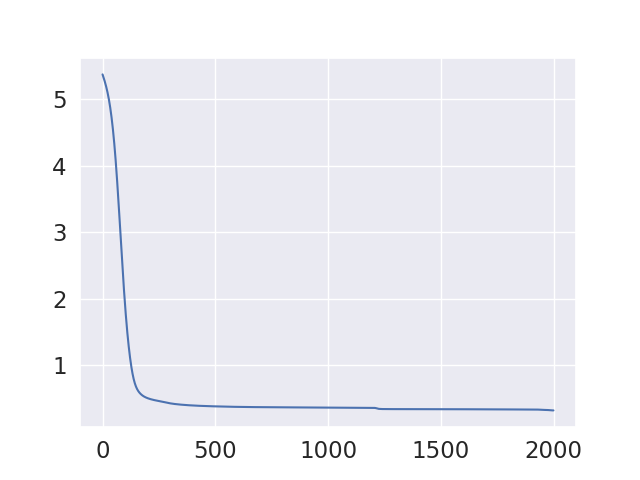
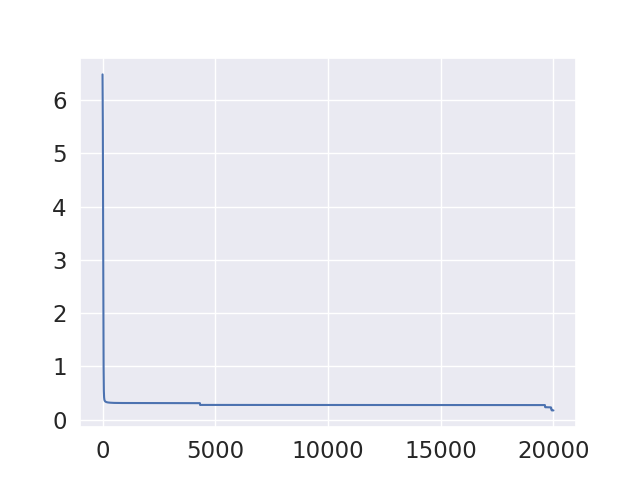
train longer, fix emb dim to 128

diff --git a/cat_tests/test_hyps.py b/cat_tests/test_hyps.py
@@ -87,7 +87,7 @@ class Cat(nn.Module):
 def H(lp):
     return -(lp.exp() * lp).sum(-1)
 
-emb_dim = 32
+emb_dim = 128
 feature_dim_ratio_grid = [1, 2, 4, 8, 16]
 feature_dim_ratio_grid = [0.5, 1, 2, 4, 8]
 num_classes_grid = [1024, 2048]
@@ -98,7 +98,7 @@ num_classes_grid = [128]
 device = torch.device("cuda:0")
 num_steps = 20000
 #num_steps = 4000
-num_steps = 2000
+#num_steps = 2000
 
 def init_optimizer(model):
     parameters = list(model.parameters())
@@ -273,7 +273,6 @@ for num_starts in [32, 64]:
         plot_losses = True,
     )
     print()
-exit()
 
 temp_grid = [1, 2, 3, 4, 5]
 print("Lower entropy is harder to fit")
